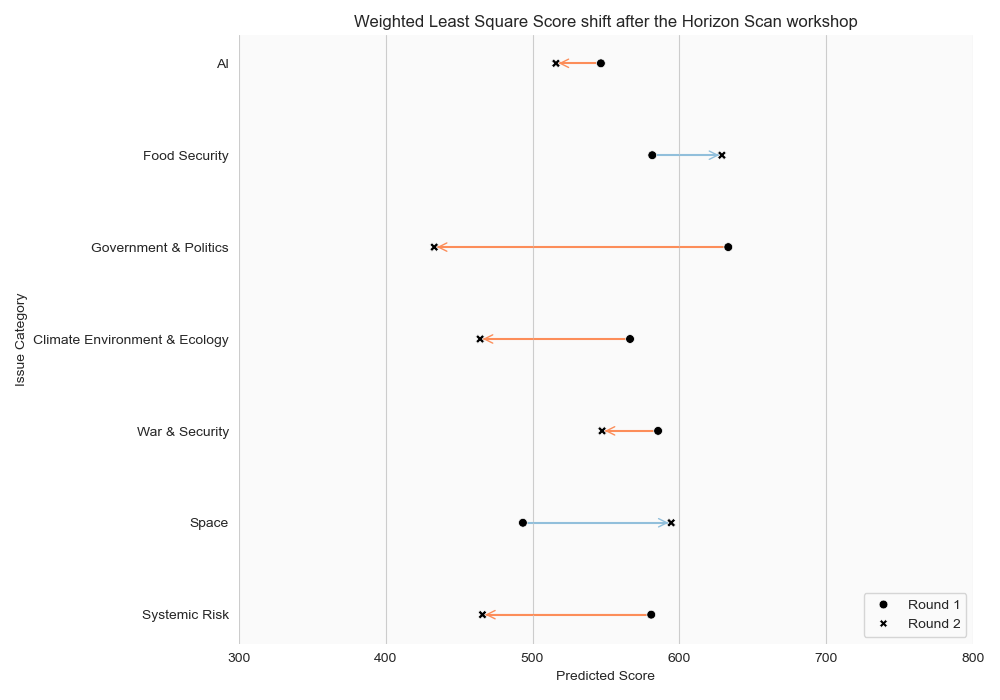
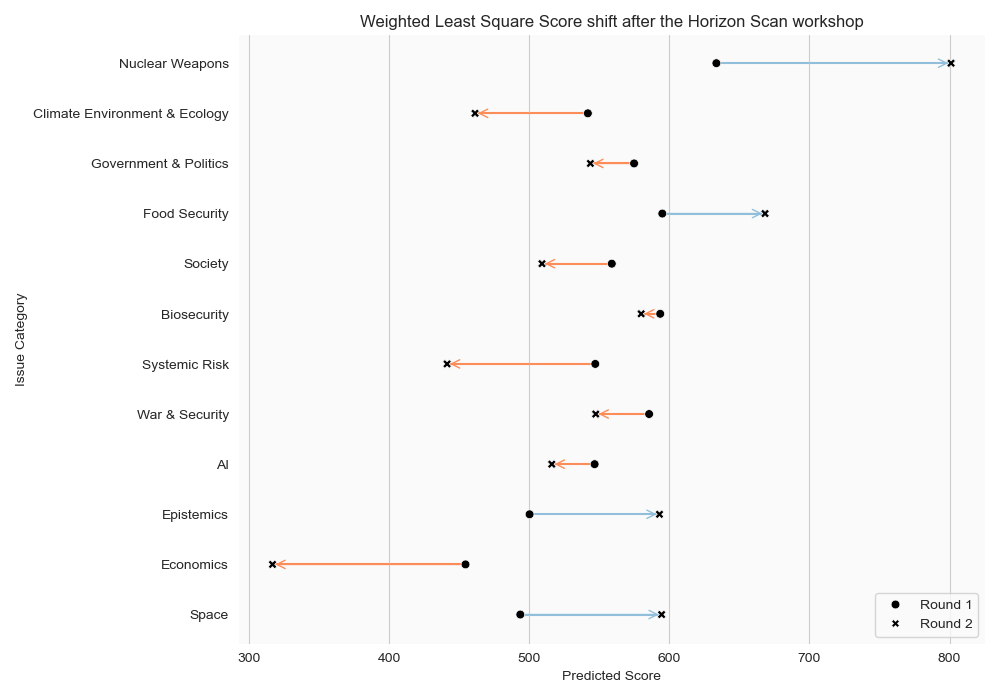
Well corrected Sample mistake

diff --git a/src/horizon_scan/HS_analysis.py b/src/horizon_scan/HS_analysis.py
@@ -51,7 +51,7 @@ def score_sample(df:pd.DataFrame) -> pd.DataFrame:
     misc_cols = df.filter(regex="rank|score").columns
     HS_justScore = df.drop(misc_cols, axis = 1)
 
-    return HS_justScore.sample(n = 8)
+    return HS_justScore
 
 def score_Ldf(df:pd.DataFrame) -> pd.DataFrame:
     justScore_Ldf = pd.melt(df, id_vars=["Issue", "Issue_cat"], var_name='Participant', value_name='Score')
